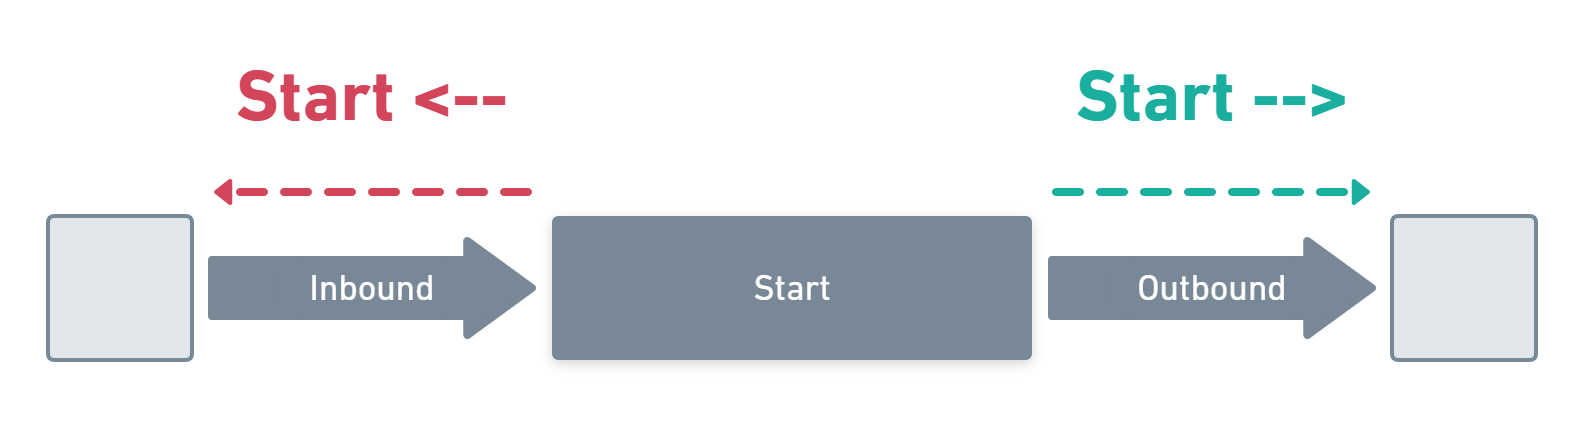
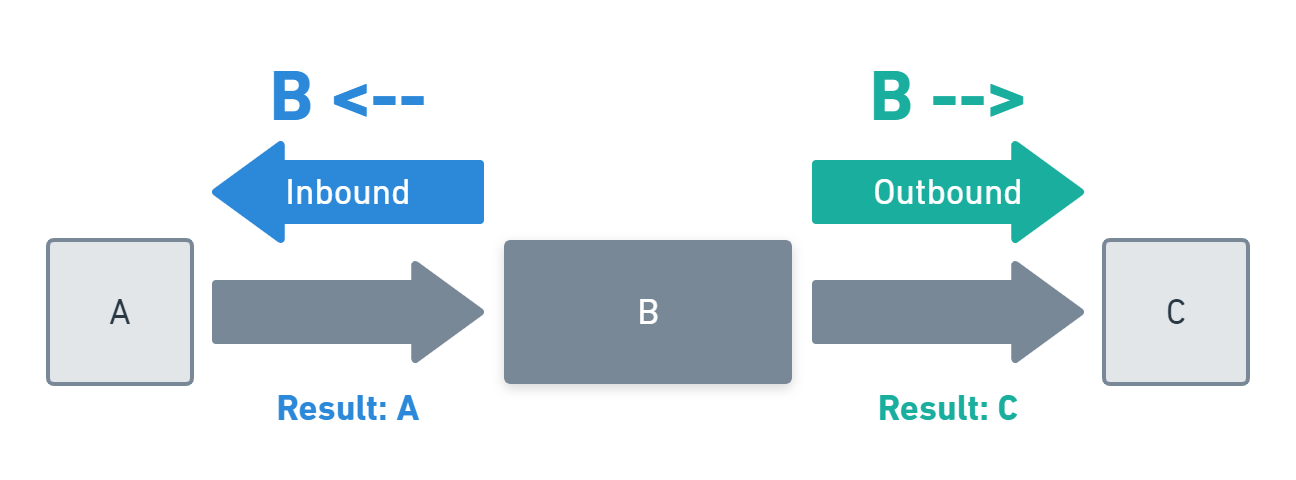
Added the "new official term": Traversal Selector
Added 'Traversal Selection Commands' section
Fixed some smaller nit picking details
Changed red color in the images to blue

Changed region(s): [[0.0309, 0.1226, 0.9877, 0.8892], [0.679, 0.8278, 0.8025, 0.8892], [0.463, 0.6132, 0.5247, 0.7052]]

diff --git a/docs/source/manual/discovery.rst b/docs/source/manual/discovery.rst
@@ -225,9 +225,9 @@ In order to define precedence, it is possible to put brackets around terms.
 
 .. admonition:: Examples of combined terms
 
-  - ``reported.name == sunset or reported.name == sunrise`` select nodes where reported.name is either sunrise or sunset.
-  - ``is(aws_ec2_instance) and reported.name==sunrise`` select aws_ec2_instance nodes where reported.name is sunrise.
-  - ``is(aws_ec2_instance) and (reported.instance_type=="m5a.large" or reported.instance_cores>2)`` select aws_ec2_instance nodes of specific type or more than 2 cores.
+  | ``query reported.name == sunset or reported.name == sunrise`` : Select nodes where reported.name is either sunrise or sunset.
+  | ``query is(aws_ec2_instance) and reported.name==sunrise`` : Select aws_ec2_instance nodes where reported.name is sunrise.
+  | ``query is(aws_ec2_instance) and (reported.instance_type=="m5a.large" or reported.instance_cores>2)`` : Select aws_ec2_instance nodes of specific type or more than 2 cores.
 
 
 Graph Edges
@@ -266,7 +266,7 @@ If we want to know all resources in the graph we need to walk *outbound* (follow
 If we want to know the account of a specific resource, we need to walk *inbound* (following the edge in reverse direction of the arrow)
 in the graph until we find an account.
 
-Walking along edges
+Traversal Selectors
 ===================
 
 Inbound and outbound
@@ -352,7 +352,7 @@ The same applies for inbound traversals with ``<-[start:]-``.
 
 .. admonition:: Example
 
-  ``is(aws_account) and reported.name==sunshine -[0:]->``
+  ``query is(aws_account) and reported.name==sunshine -[0:]->``
 
   This query will select the aws account with name ``sunshine`` and then select all nodes outbound to this node.
   This will select everything Cloudkeeper knows about nodes in this account.
@@ -372,18 +372,38 @@ The graph will be traversed from the current node according to this specificatio
 Abbreviations
 -------------
 
-There are abbreviations for the most common BLAs.
+There are abbreviations for the most common traversal selectors.
 
 .. admonition:: Example
 
   | ``-->`` and ``<--`` are abbreviations to ``-[1:1]->`` and ``<-[1:1]-``
-  | ``query is(aws_account) -->`` is equivalent to ``is(aws_account) -[1:1]->``
+  | ``query is(aws_account) -->`` is equivalent to ``query is(aws_account) -[1:1]->``
 
   | ``<-->`` is an abbreviation for ``<-[1:1]->``
-  | ``query is(aws_region) <-->`` is equivalent to ``is(aws_region) <-[1:1]->``
+  | ``query is(aws_region) <-->`` is equivalent to ``query is(aws_region) <-[1:1]->``
 
   | ``<-[x]-`` is an abbreviation for ``<-[x:x]-``
-  | ``query is(aws_region) <-[3]->`` is equivalent to ``is(aws_region) <-[3:3]->``
+  | ``query is(aws_region) <-[3]->`` is equivalent to ``query is(aws_region) <-[3:3]->``
+
+
+Traversal Selection Commands
+----------------------------
+
+There are also commands doing a traversal selection that you can chain using a pipe.
+
+.. admonition:: Example
+
+  | ``predecessors`` is a command being substituted for ``<--`` / ``<-[1:1]-``
+  | ``query is(aws_region) | predecessors`` is equivalent to ``query is(aws_region) <--``
+
+  | ``successors`` is a command being substituted for ``-->`` / ``-[1:1]->``
+  | ``query is(aws_region) | successors`` is equivalent to ``query is(aws_region) -->``
+
+  | ``ancestors`` is a command being substituted for ``<-[1:]-``
+  | ``query is(aws_region) | ancestors`` is equivalent to ``query is(aws_region) <-[1:]-``
+
+  | ``descendants`` is a command being substituted for ``-[1:]->``
+  | ``query is(aws_region) | descendants`` is equivalent to ``query is(aws_region) -[1:]->``
 
 
 Ensuring an existing defined graph structure
